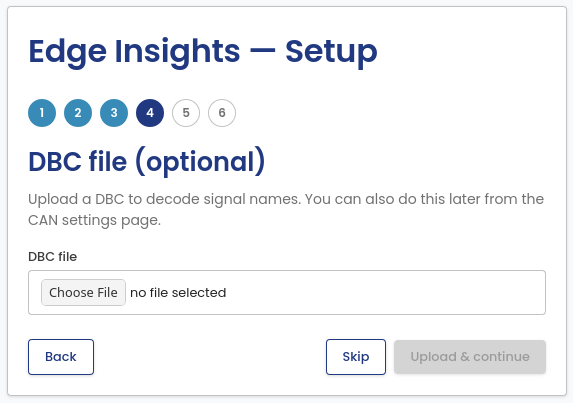
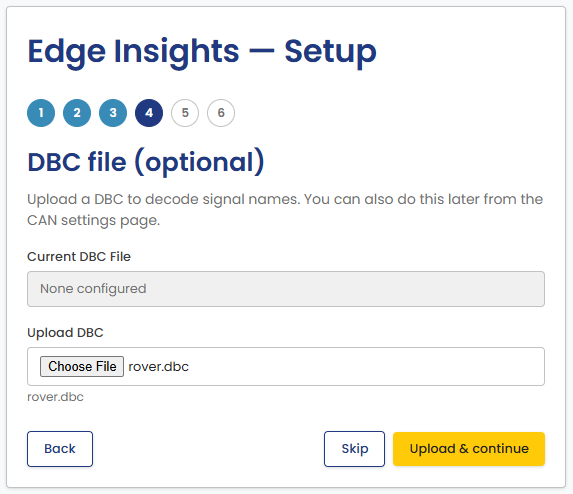
docs: document the staged setup wizard
The setup wizard now saves nothing until its last step
(CanEduDev/edge-insights#353). Rewrite the First Run walkthrough to match:
the DBC step uploads the file once to check it and shows the DBC in use,
Clear existing data takes effect when setup is finished, and the last
step is now Review and finish, which marks each setting (current) or
(new) and applies everything with Apply & launch dashboard.

Add a Running the wizard again section for the re-run: the form starts
from the saved settings, the Welcome step warns when Edge Insights is
recording and offers Stop recording & continue or Go back, and Keep
current keeps a step's saved settings. The Home page bullet no longer
says the wizard starts from scratch.

Retake all six wizard screenshots from the current build, replaced in
place under the same names, and add two for the re-run: the recording
warning and a review with data to clear. setup-wizard-06-all-set.png
keeps its name so references stay valid, though it now shows Review and
finish. The PNGs are losslessly optimized with oxipng.

Changed region(s): [[0.0, 0.0, 1.0, 1.0]]

diff --git a/docs/getting-started/first-run.md b/docs/getting-started/first-run.md
@@ -12,8 +12,12 @@ Once Edge Insights is installed, open the portal:
 ## Initial setup
 
 The portal opens a setup wizard the first time you launch Edge Insights.
-You can re-run it later from the **Re-run setup wizard** link on the Home
-page.
+You can run it again later from the **Re-run setup wizard** link on the
+Home page. See [Running the wizard again](#running-the-wizard-again).
+
+The wizard saves nothing until its last step. Until then, you can go
+**Back** and change any step. The settings take effect when you finish
+the last step.
 
 1. **Welcome**: a short introduction.
 
@@ -21,42 +25,93 @@ page.
 
 2. **CAN source**: choose **Configure my setup** to select a real
    interface, or **Try with demo data** to explore Edge Insights with a
-   bundled sample log instead of live hardware. Demo data skips the next
-   three steps.
+   bundled sample log instead of live hardware. Demo data skips steps 3
+   to 5. Its last step loads the sample log and the matching DBC file.
 
     ![Setup wizard: CAN source](../images/getting-started/setup-wizard-02-can-source.png)
 
 3. **CAN interface**: pick the interface, its bitrate, and how frames are
    read. Turn on **J1939 Mode** for a J1939 bus. See
    [CAN Settings](../portal/can-settings.md) for details on each option.
+   **Silent Mode** stays off for a channel that does not support it, for
+   example a Kvaser virtual channel.
 
     This step can also clear what is already recorded for the interface you
     pick. Tick **Clear existing data for this interface first** to start
     from a clean state, for example on a device redeployed to a different
-    bus. It is off by default, and it asks for confirmation before erasing
-    anything. The DBC file and your settings are not removed.
+    bus. It is off by default. The data is deleted when you finish setup,
+    not on this step. The DBC file and your settings are not removed.
 
     ![Setup wizard: CAN interface](../images/getting-started/setup-wizard-03-can-interface.png)
 
 4. **DBC file (optional)**: upload a DBC file so Edge Insights can decode
-   raw CAN frames into named signals. You can add or change this later
-   from the CAN Settings page.
+   raw CAN frames into named signals. **Current DBC File** shows the file
+   in use, or "None configured". Choose a file under **Upload DBC** and
+   click **Upload & continue**. Edge Insights checks that the file is a
+   valid DBC file, but uses it only when you finish setup. If you return
+   to this step, it shows the uploaded file name and its number of
+   messages. Click **Skip** to continue without a DBC file. You can add or
+   change the file later from the CAN Settings page.
 
     ![Setup wizard: DBC file](../images/getting-started/setup-wizard-04-dbc-file.png)
 
 5. **Baseline mode**: choose Teach mode to let Edge Insights learn normal
-   bus behavior for a set duration before flagging anomalies, or Direct
-   mode to start anomaly detection immediately with no baseline.
+   bus behavior for a set duration (1 to 60 minutes) before flagging
+   anomalies, or Direct mode to start anomaly detection immediately with
+   no baseline.
 
     ![Setup wizard: Baseline mode](../images/getting-started/setup-wizard-05-baseline-mode.png)
 
-6. **You're all set**: launch the dashboard to see live traffic, decoded
-   signals, and detected anomalies.
+6. **Review and finish**: check the settings before they are saved. The
+   list shows the interface, bitrate, silent mode, J1939 mode, DBC file,
+   and baseline. *(new)* marks a value that this run changes. *(current)*
+   marks a value that stays as it is saved now. If you ticked **Clear
+   existing data for this interface first**, a warning states that the
+   recorded data for the interface is deleted.
 
-    ![Setup wizard: all set](../images/getting-started/setup-wizard-06-all-set.png)
+    Click **Apply & launch dashboard**. Edge Insights saves all settings,
+    brings the interface online, and starts recording and analysis. Then
+    the portal opens the Home page. If no interface is configured, the
+    button only saves the settings.
+
+    If the interface cannot be brought online, the wizard stays on this
+    step and shows an error. Fix the cause and click **Apply & launch
+    dashboard** again, or click **Back** to change the settings.
+
+    ![Setup wizard: Review and finish](../images/getting-started/setup-wizard-06-all-set.png)
 
 If no CAN hardware is connected, use the **Try with demo data** option
 above, or import a log later from [Import Log](../portal/import-log.md).
+
+### Running the wizard again
+
+Click **Re-run setup wizard** on the Home page to change the settings
+later. The wizard starts from the saved settings. Change what you need.
+As on the first run, nothing is saved until the last step.
+
+If Edge Insights is recording when the wizard opens, the Welcome step
+shows a warning. Setup stops the recording before it continues. The
+warning has two buttons:
+
+- **Stop recording & continue** stops the recording and continues to the
+  next step.
+- **Go back** returns to the Home page. Recording continues. This button
+  is not shown before setup has been completed once.
+
+![Setup wizard: Welcome while recording](../images/getting-started/setup-wizard-rerun-welcome.png)
+
+On the CAN interface and DBC file steps, **Keep current** keeps the
+saved settings of that step and continues. The button reads **Skip** when
+nothing is configured for that step yet. On the CAN interface step,
+**Keep current** also ignores **Clear existing data for this interface
+first**.
+
+![Setup wizard: Review and finish on a re-run, with data to clear](../images/getting-started/setup-wizard-rerun-review.png)
+
+**Apply & launch dashboard** on the last step starts recording again. If
+you leave the wizard before the last step, nothing is saved. To resume
+recording, bring the interface up from
+[CAN Settings](../portal/can-settings.md#interface-and-bus-settings).
 
 ## Activate the license
 

diff --git a/docs/portal/index.md b/docs/portal/index.md
@@ -16,10 +16,11 @@ another machine on the network.
 
 The Home page is the starting point. It shows:
 
-- **Re-run setup wizard**: replays the
-  [initial setup wizard](../getting-started/first-run.md#initial-setup)
-  at any time, to reconfigure the CAN interface, DBC file, or baseline
-  mode from scratch.
+- **Re-run setup wizard**: opens the
+  [setup wizard](../getting-started/first-run.md#running-the-wizard-again)
+  again, to change the CAN interface, DBC file, or baseline mode. The
+  wizard starts from the current settings and saves nothing until its
+  last step.
 - **License**: activation status for this installation.
 - **CAN Interfaces**: live status, bus configuration, and a 24-hour
   anomaly count for each interface.
